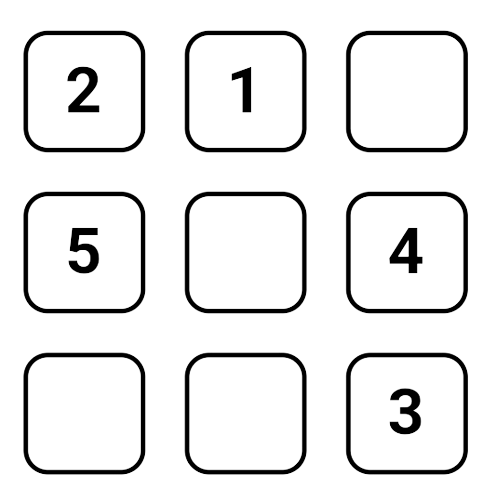
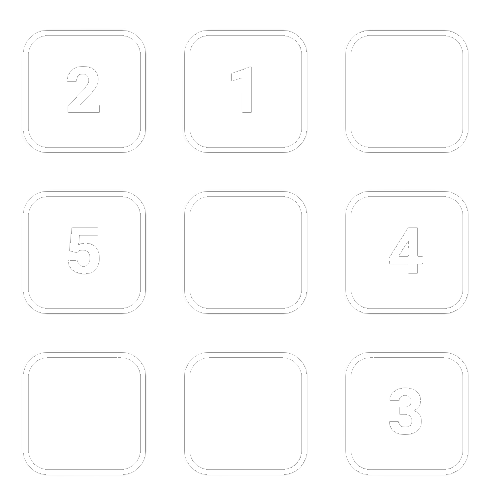
Theme changed

diff --git a/lib/data/constants.dart b/lib/data/constants.dart
@@ -13,16 +13,16 @@ TextStyle small_text = const TextStyle(
     fontSize: 20,
     fontFamily: "Roboto",
     fontWeight: FontWeight.normal,
-    color: Colors.black);
+    color: Colors.white);
 
 TextStyle large_text = const TextStyle(
     fontSize: 24,
     fontFamily: "Roboto",
     fontWeight: FontWeight.bold,
-    color: Colors.black);
+    color: Colors.white);
 
-Color button_color = Colors.white;
-Color box_color = Colors.white;
+Color button_color = Color(0xFF1D1E33);
+Color box_color = Color(0xFF1D1E33);
 
 Future<bool> onBackPressed(BuildContext context) {
   return showDialog(
@@ -36,9 +36,9 @@ Future<bool> onBackPressed(BuildContext context) {
         ),
         ElevatedButton(
           onPressed: () {
-            
-            Navigator.push(context,
-                MaterialPageRoute(builder: (context) => MyMainScreen()));
+            Navigator.popUntil(context, ModalRoute.withName('/'));
+            // Navigator.push(context,
+            //     MaterialPageRoute(builder: (context) => MyMainScreen()));
             if (StopWatch.isRuning) {
               StopWatch.stopStopwatch();
             }
@@ -59,9 +59,18 @@ void resetWrongScore() {
   TilesForGame6.score = 0;
 }
 
-Container timerContainer(String timer){
+Container timerContainer(String timer) {
   return Container(
     margin: EdgeInsets.all(10),
     padding: EdgeInsets.all(10),
-    child: Center(child: Text(timer, style: TextStyle(fontSize: 34, fontWeight: FontWeight.bold, color: Colors.green.shade400),),),);
+    child: Center(
+      child: Text(
+        timer,
+        style: TextStyle(
+            fontSize: 34,
+            fontWeight: FontWeight.bold,
+            color: Colors.green.shade400),
+      ),
+    ),
+  );
 }

diff --git a/lib/screens/main_screen.dart b/lib/screens/main_screen.dart
@@ -118,6 +118,7 @@ class _MyMainScreenState extends State<MyMainScreen> {
       onWillPop: _onWillPop,
       child: Scaffold(
         appBar: AppBar(
+          backgroundColor: Color(0xFF0A0E21),
           title: Center(
             child: Text(
               "Exercise",
@@ -196,9 +197,9 @@ class Listofgames extends StatelessWidget {
         onTap: pressed,
         child: Container(
           decoration: BoxDecoration(
-              color: Color.fromARGB(255, 79, 166, 243),
+              color: Color(0xFF1D1E33),
               border: Border.all(
-                color: Colors.black,
+                color: Color(0xFF1D1E33),
               ),
               borderRadius: BorderRadius.circular(10.0)),
           height: 20,
@@ -213,7 +214,7 @@ class Listofgames extends StatelessWidget {
               ),
               Text(
                 '${text} - ${score}',
-                style: large_text.copyWith(color: Colors.black, fontSize: 14),
+                style: large_text.copyWith(color: Colors.white, fontSize: 14),
               ),
             ],
           ),

diff --git a/lib/screens/Success.dart b/lib/screens/Success.dart
@@ -19,6 +19,7 @@ class _SuccessState extends State<Success> {
       onWillPop: () => onBackPressed(context),
       child: Scaffold(
         appBar: AppBar(
+          backgroundColor: Color(0xFF0A0E21),
           leading: IconButton(
             icon: Icon(Icons.arrow_back_ios),
             iconSize: 20,
@@ -46,10 +47,10 @@ class _SuccessState extends State<Success> {
                     onPressed: () {
                       StopWatch.stopStopwatch();
                       Navigator.popUntil(context, ModalRoute.withName('/'));
-                      Navigator.push(
-                          context,
-                          MaterialPageRoute(
-                              builder: (context) => MyMainScreen()));
+                      // Navigator.push(
+                      //     context,
+                      //     MaterialPageRoute(
+                      //         builder: (context) => MyMainScreen()));
                     },
                     child: Container(
                       height: 50,

diff --git a/lib/screens/Wrong.dart b/lib/screens/Wrong.dart
@@ -19,6 +19,7 @@ class _WrongState extends State<Wrong> {
       onWillPop: () => onBackPressed(context),
       child: Scaffold(
         appBar: AppBar(
+          backgroundColor: Color(0xFF0A0E21),
           leading: IconButton(
             icon: Icon(Icons.arrow_back_ios),
             iconSize: 20,
@@ -47,10 +48,10 @@ class _WrongState extends State<Wrong> {
                       Navigator.popUntil(context, ModalRoute.withName('/'));
                       resetWrongScore();
                       StopWatch.stopStopwatch();
-                      Navigator.push(
-                          context,
-                          MaterialPageRoute(
-                              builder: (context) => MyMainScreen()));
+                      // Navigator.push(
+                      //     context,
+                      //     MaterialPageRoute(
+                      //         builder: (context) => MyMainScreen()));
                     },
                     child: Container(
                       height: 50,

diff --git a/lib/screens/Game2.dart b/lib/screens/Game2.dart
@@ -39,6 +39,7 @@ class _Game2State extends State<Game2> {
       onWillPop: () => onBackPressed(context),
       child: Scaffold(
         appBar: AppBar(
+          backgroundColor: Color(0xFF0A0E21),
           centerTitle: true,
           title: Text('Memory Matrix',
               style: large_text.copyWith(color: Colors.white)),
@@ -184,7 +185,7 @@ class _SingleButtonState extends State<SingleButton> {
             borderRadius: BorderRadius.circular(0),
           ),
           elevation: isSelected ? 4 : 1,
-          primary: isSelected ? Colors.blue : Colors.white,
+          primary: isSelected ? Colors.blue : Color(0xFF1D1E33),
         ),
         onPressed: ConvertIspressed,
         child: const Text(""),

diff --git a/lib/main.dart b/lib/main.dart
@@ -28,7 +28,10 @@ class _MyAppState extends State<MyApp> {
   @override
   Widget build(BuildContext context) {
     return MaterialApp(
-      theme: ThemeData.light(),
+      theme: ThemeData.dark().copyWith(
+        primaryColor: Color(0xFF0A0E21),
+        scaffoldBackgroundColor: Color(0xFF0A0E21),
+      ),
       debugShowCheckedModeBanner: false,
       initialRoute: '/',
       routes: {

diff --git a/lib/screens/Game4.dart b/lib/screens/Game4.dart
@@ -44,7 +44,9 @@ class _Game4State extends State<Game4> {
     return WillPopScope(
       onWillPop: () => onBackPressed(context),
       child: Scaffold(
+          
         appBar: AppBar(
+          backgroundColor: Color(0xFF0A0E21),
           centerTitle: true,
           title:
               Text('Memory', style: large_text.copyWith(color: Colors.white)),

diff --git a/lib/screens/Game22.dart b/lib/screens/Game22.dart
@@ -25,6 +25,7 @@ class _Game12State extends State<Game22> {
       onWillPop: () => onBackPressed(context),
       child: Scaffold(
         appBar: AppBar(
+          backgroundColor: Color(0xFF0A0E21),
           centerTitle: true,
           title: Text('Memory Matrix',
               style: large_text.copyWith(color: Colors.white)),

diff --git a/lib/screens/Game444.dart b/lib/screens/Game444.dart
@@ -40,6 +40,7 @@ class _Game444State extends State<Game444> {
       onWillPop: () => onBackPressed(context),
       child: Scaffold(
         appBar: AppBar(
+          backgroundColor: Color(0xFF0A0E21),
           centerTitle: true,
           title:
               Text('Memory', style: large_text.copyWith(color: Colors.white)),

diff --git a/lib/screens/Game66.dart b/lib/screens/Game66.dart
@@ -22,6 +22,7 @@ class _Game66State extends State<Game66> {
       onWillPop: () => onBackPressed(context),
       child: Scaffold(
         appBar: AppBar(
+          backgroundColor: Color(0xFF0A0E21),
           centerTitle: true,
           title:
               Text('Remember', style: large_text.copyWith(color: Colors.white)),

diff --git a/lib/screens/Game11.dart b/lib/screens/Game11.dart
@@ -27,6 +27,7 @@ class _Game11State extends State<Game11> {
       onWillPop: () => onBackPressed(context),
       child: Scaffold(
         appBar: AppBar(
+          backgroundColor: Color(0xFF0A0E21),
           centerTitle: true,
           title:
               Text('Memory', style: large_text.copyWith(color: Colors.white)),

diff --git a/lib/screens/Game6.dart b/lib/screens/Game6.dart
@@ -36,6 +36,7 @@ class _Game6State extends State<Game6> {
       onWillPop: () => onBackPressed(context),
       child: Scaffold(
         appBar: AppBar(
+          backgroundColor: Color(0xFF0A0E21),
           centerTitle: true,
           title:
               Text('Hangman', style: large_text.copyWith(color: Colors.white)),
